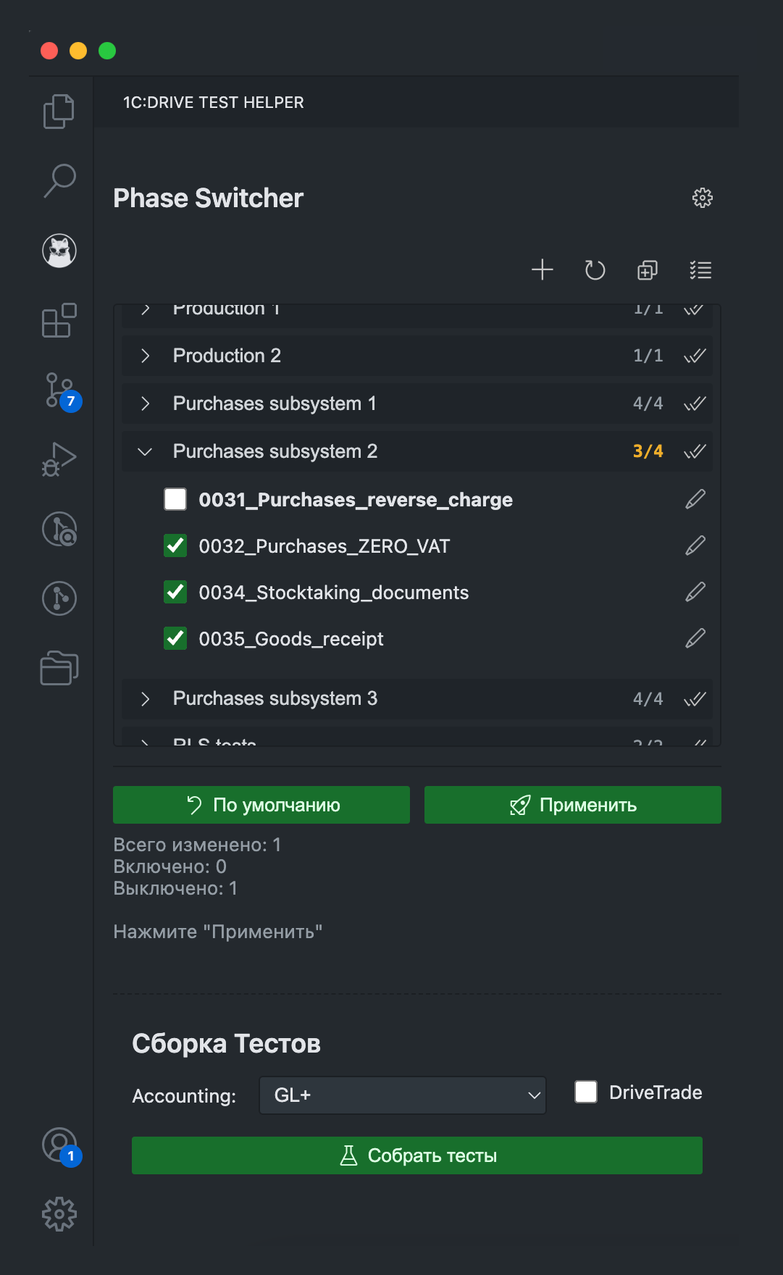
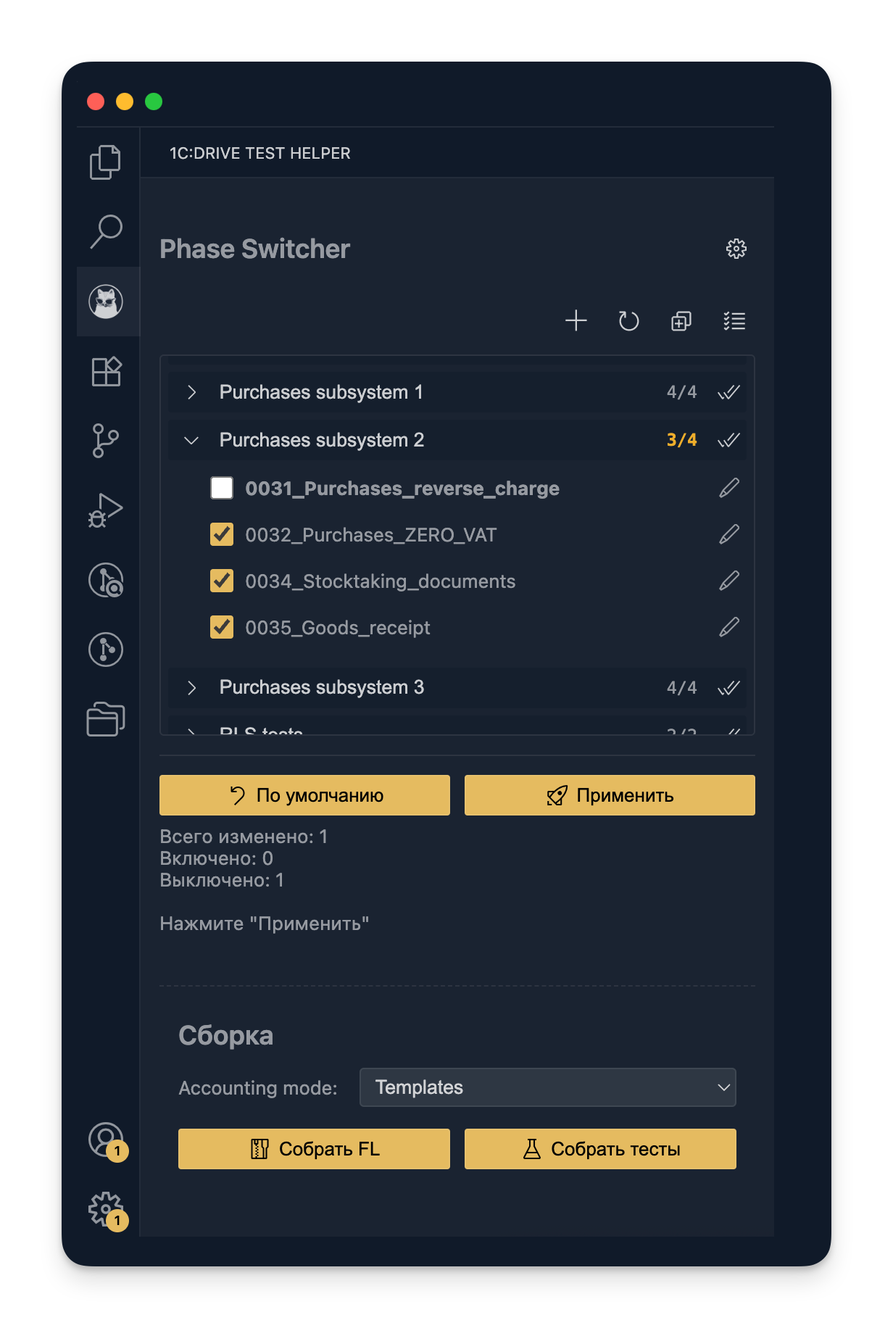
1.8.0

diff --git a/src/commandHandlers.ts b/src/commandHandlers.ts
@@ -6,6 +6,7 @@ import { v4 as uuidv4 } from 'uuid';
 import { findFileByName, findScenarioReferences } from './navigationUtils';
 import { PhaseSwitcherProvider } from './phaseSwitcher';
 import { TestInfo } from './types';
+import JSZip = require('jszip');
 
 /**
  * Общая функция для поиска файла по выделенному тексту в редакторе.
@@ -1195,4 +1196,109 @@ export async function checkAndFillScenarioParametersHandler(textEditor: vscode.T
 
     vscode.window.showInformationMessage(`Добавлено ${parametersToAdd.length} параметров сценария.`);
     console.log(`[Cmd:checkAndFillScenarioParameters] Added ${parametersToAdd.length} parameters.`);
+}
+
+
+/**
+ * Обработчик команды создания архива FirstLaunch.zip.
+ * @param context Контекст расширения.
+ */
+export async function handleCreateFirstLaunchZip(context: vscode.ExtensionContext): Promise<void> {
+    console.log("[Cmd:createFirstLaunchZip] Starting...");
+
+    const workspaceFolders = vscode.workspace.workspaceFolders;
+    if (!workspaceFolders || workspaceFolders.length === 0) {
+        vscode.window.showErrorMessage("Рабочая область не открыта.");
+        return;
+    }
+    const workspaceRoot = workspaceFolders[0].uri;
+
+    try {
+        // --- 1. Чтение версии из Configuration.xml ---
+        const configXmlUri = vscode.Uri.joinPath(workspaceRoot, 'cf', 'Configuration.xml');
+        let version = '';
+        try {
+            const xmlContentBytes = await vscode.workspace.fs.readFile(configXmlUri);
+            const xmlContent = Buffer.from(xmlContentBytes).toString('utf-8');
+            const versionMatch = xmlContent.match(/<Version>([^<]+)<\/Version>/);
+            if (!versionMatch || !versionMatch[1]) {
+                vscode.window.showErrorMessage("Не удалось найти тег <Version> в cf/Configuration.xml.");
+                return;
+            }
+            version = versionMatch[1];
+            console.log(`[Cmd:createFirstLaunchZip] Found version: ${version}`);
+        } catch (error) {
+            vscode.window.showErrorMessage("Не удалось прочитать файл cf/Configuration.xml.");
+            return;
+        }
+
+        // --- 2. Рекурсивный обход папки и замена версии ---
+        const zip = new JSZip();
+        const firstLaunchFolderUri = vscode.Uri.joinPath(workspaceRoot, 'first_launch');
+
+        await vscode.window.withProgress({
+            location: vscode.ProgressLocation.Notification,
+            title: "Сборка FirstLaunch.zip",
+            cancellable: false
+        }, async (progress) => {
+            progress.report({ message: "Чтение файлов..." });
+            
+            async function processDirectory(dirUri: vscode.Uri, zipFolder: JSZip) {
+                const entries = await vscode.workspace.fs.readDirectory(dirUri);
+                for (const [name, type] of entries) {
+                    const fullUri = vscode.Uri.joinPath(dirUri, name);
+                    if (type === vscode.FileType.Directory) {
+                        const subFolder = zipFolder.folder(name);
+                        if(subFolder) {
+                            await processDirectory(fullUri, subFolder);
+                        }
+                    } else if (type === vscode.FileType.File) {
+                        const fileBytes = await vscode.workspace.fs.readFile(fullUri);
+                        let fileContent = Buffer.from(fileBytes).toString('utf-8');
+                        
+                        const newFileContent = fileContent.replace(/version="[^"]*">/g, `version="${version}">`);
+                        
+                        zipFolder.file(name, newFileContent);
+                    }
+                }
+            }
+
+            await processDirectory(firstLaunchFolderUri, zip);
+
+            // --- 3. Сохранение ZIP архива ---
+            progress.report({ message: "Создание архива..." });
+
+            const saveUri = await vscode.window.showSaveDialog({
+                defaultUri: vscode.Uri.joinPath(workspaceRoot, 'FirstLaunch.zip'),
+                filters: {
+                    'Zip-архивы': ['zip']
+                },
+                title: "Сохранить FirstLaunch.zip"
+            });
+
+            if (saveUri) {
+                const zipContent = await zip.generateAsync({ type: "nodebuffer" });
+                await vscode.workspace.fs.writeFile(saveUri, zipContent);
+                console.log(`[Cmd:createFirstLaunchZip] Archive saved to ${saveUri.fsPath}`);
+
+                // Показываем уведомление с кнопкой
+                vscode.window.showInformationMessage(
+                    `Архив FirstLaunch.zip успешно сохранен`,
+                    'Открыть директорию'
+                ).then(selection => {
+                    if (selection === 'Открыть директорию') {
+                        // Открыть системный проводник и выделить файл
+                        vscode.commands.executeCommand('revealFileInOS', saveUri);
+                    }
+                });
+            } else {
+                console.log("[Cmd:createFirstLaunchZip] Save dialog cancelled.");
+                vscode.window.showInformationMessage("Сохранение архива отменено.");
+            }
+        });
+
+    } catch (error: any) {
+        console.error("[Cmd:createFirstLaunchZip] Error:", error);
+        vscode.window.showErrorMessage(`Ошибка при создании FirstLaunch.zip: ${error.message || error}`);
+    }
 }

diff --git a/media/phaseSwitcher.css b/media/phaseSwitcher.css
@@ -286,17 +286,17 @@ h1 {
     font-style: italic;
 }
 
-.phase-switcher-controls .controls-row {
+.controls-row {
      display: flex;
      gap: 10px;
      margin-bottom: 10px;
      flex-wrap: wrap; 
 }
-.phase-switcher-controls .controls-row:last-child {
+.controls-row:last-child {
     margin-bottom: 0; 
 }
 
-.phase-switcher-controls .controls-row > button {
+.controls-row > button {
     flex-grow: 1;         
     flex-shrink: 1;       
     flex-basis: auto;     
@@ -430,6 +430,14 @@ label.checkbox-item.changed span.checkbox-label-text {
 }
 .assemble-options label.setting-item span { font-size: var(--vscode-font-size); }
 .assemble-controls { margin-bottom: 10px; }
+.assemble-controls .controls-row {
+    display: flex;
+    gap: 10px;
+}
+.assemble-controls .controls-row > button {
+    flex-grow: 1;
+    flex-basis: 0;
+}
 #assembleStatus { 
     font-size: var(--vscode-editor-font-size); 
     color: var(--vscode-descriptionForeground); 
@@ -457,7 +465,7 @@ label.checkbox-item.changed span.checkbox-label-text {
 
 /* Общие стили для кнопок в нижнем блоке управления */
 .phase-switcher-controls button, 
-#assembleTestsBtn {
+.assemble-controls button {
     background-color: var(--vscode-button-background);
     color: var(--vscode-button-foreground);
     border: 1px solid var(--vscode-button-border, var(--vscode-contrastBorder));
@@ -468,20 +476,17 @@ label.checkbox-item.changed span.checkbox-label-text {
     font-size: var(--vscode-font-size);
 }
 .phase-switcher-controls button:hover, 
-#assembleTestsBtn:hover {
+.assemble-controls button:hover {
     background-color: var(--vscode-button-hoverBackground);
 }
 .phase-switcher-controls button:disabled, 
-#assembleTestsBtn:disabled {
+.assemble-controls button:disabled {
     background-color: var(--vscode-button-secondaryBackground); 
     color: var(--vscode-disabledForeground);
     cursor: not-allowed; 
     border-color: var(--vscode-button-border, var(--vscode-disabledForeground));
     opacity: 0.7;
 }
-#assembleTestsBtn {
-    width: 100%;
- }
 
 .button-with-icon {
   display: inline-flex; 

diff --git a/media/phaseSwitcher.html b/media/phaseSwitcher.html
@@ -67,22 +67,24 @@
         <hr id="sectionSeparator" class="section-separator">
         
         <div id="assembleSection" class="assemble-tests-section">
-            <h1>Сборка Тестов</h1>
+            <h1>Сборка</h1>
             <div class="assemble-options assemble-options-inline">
-                Accounting:
+                Accounting mode:
                 <select id="recordGLSelect" name="recordGLAccounts" title="Record GL Accounts (0=No, 1=Yes, 2=Templates)">
                     <option value="0">GL-</option>
                     <option value="1">GL+</option>
                     <option value="2" selected>Templates</option>
                 </select>
-                <label class="setting-item drive-trade-label">
-                    <input type="checkbox" id="driveTradeChk">
-                    <span>DriveTrade</span> </label>
             </div>
             <div class="assemble-controls">
-                 <button id="assembleTestsBtn" class="button-with-icon">
-                     <span class="codicon codicon-beaker"></span> Собрать тесты
-                 </button>
+                <div class="controls-row">
+                    <button id="createFirstLaunchBtn" class="button-with-icon" title="Собрать архив FirstLaunch">
+                        <span class="codicon codicon-file-zip"></span> Собрать FL
+                    </button>
+                    <button id="assembleTestsBtn" class="button-with-icon">
+                        <span class="codicon codicon-beaker"></span> Собрать тесты
+                    </button>
+                </div>
             </div>
             <div id="assembleStatus" class="status-area">
             </div>

diff --git a/media/phaseSwitcher.js b/media/phaseSwitcher.js
@@ -20,7 +20,8 @@
     const refreshBtn = document.getElementById('refreshBtn');
     const openSettingsBtn = document.getElementById('openSettingsBtn');
     const collapseAllBtn = document.getElementById('collapseAllBtn');
-    
+    const createFirstLaunchBtn = document.getElementById('createFirstLaunchBtn');
+
     // Новые элементы для выпадающего меню
     const addScenarioDropdownBtn = document.getElementById('addScenarioDropdownBtn');
     const addScenarioDropdownContent = document.getElementById('addScenarioDropdownContent');
@@ -878,4 +879,10 @@
     if (applyChangesBtn instanceof HTMLButtonElement) applyChangesBtn.disabled = true;
     requestInitialState();
 
+    if(createFirstLaunchBtn instanceof HTMLButtonElement) {
+        createFirstLaunchBtn.addEventListener('click', () => {
+            log('Create FirstLaunch.zip button clicked.');
+            vscode.postMessage({ command: 'createFirstLaunchZip' });
+        });
+    }
 }());

diff --git a/src/extension.ts b/src/extension.ts
@@ -13,7 +13,8 @@ import {
     openMxlFileFromExplorerHandler,
     openMxlFileFromTextHandler,
     revealFileInExplorerHandler,
-    revealFileInOSHandler
+    revealFileInOSHandler,
+    handleCreateFirstLaunchZip
 } from './commandHandlers';
 
 import { DriveCompletionProvider } from './completionProvider';
@@ -257,6 +258,11 @@ export function activate(context: vscode.ExtensionContext) {
             await refreshGherkinStepsCommand(); 
         }
     }));
+
+    context.subscriptions.push(vscode.commands.registerCommand(
+        '1cDriveHelper.createFirstLaunchZip', 
+        () => handleCreateFirstLaunchZip(context)
+    ));
 
     console.log('1cDriveHelper commands and providers registered.');
 }

diff --git a/src/phaseSwitcher.ts b/src/phaseSwitcher.ts
@@ -188,6 +188,10 @@ export class PhaseSwitcherProvider implements vscode.WebviewViewProvider {
                     console.log("[PhaseSwitcherProvider] Received createNestedScenario command from webview.");
                     vscode.commands.executeCommand('1cDriveHelper.createNestedScenario');
                     return;
+                case 'createFirstLaunchZip':
+                    console.log("[PhaseSwitcherProvider] Received createFirstLaunchZip command from webview.");
+                    vscode.commands.executeCommand('1cDriveHelper.createFirstLaunchZip');
+                    return;
             }
         }, undefined, this._context.subscriptions);
 

diff --git a/README.md b/README.md
@@ -1,9 +1,7 @@
 # 1C:Drive Test Helper
-## Помощник для тестов 1C:Drive
-[![Версия](https://img.shields.io/badge/version-1.7.1-yellow)](./package.json) 
-
 <p align="center">
-  <img src="./res/icons/1CDriveTestHelper.png" alt="Иконка 1C:Drive Test Helper" width="128"/>
+  <img src="./docs/1CDriveTestHelper_poster.png" alt="Иконка 1C:Drive Test Helper" width="600"/><br>
+  <img src="https://img.shields.io/badge/version-1.8.0-yellow">
 </p>
 
 Помощник для разработки и управления регрессионными тестами 1C:Drive в VS Code. Ускоряет навигацию между сценариями, создание новых сценариев по шаблонам и управление фазами и сборкой для тестовых запусков.
@@ -52,7 +50,7 @@
 ## Панель 1C:Drive Test Helper:
 Для открытия, нажмите на иконку расширения <img src="./docs/activity_icon_mini.png" height="20" alt="Иконка" style="vertical-align: bottom;"> в боковой панели (Activity Bar).
 
-### Phase Switcher:
+### Панель Phase Switcher:
 
 Развитие приложения [Phase Switcher](https://github.com/kakoytochelik/PhaseSwitcher) внутри расширения для VS Code.
 
@@ -82,16 +80,20 @@
       * По кнопке карандаша можно открыть сценарий в редакторе.
       * **Статус-бар:** Отображает текущий статус (загрузка, наличие изменений, результат применения).
 
+### Панель Сборка:
+#### Сборка архива FirstLaunch:
+  * Позволяет собрать архив FirstLaunch.zip для целей тестирования региональных версий.
+  * `Собрать FL`: собирает архив, подставляет в файлы текущую версию конфигурации из ветки.
+  * После успешной сборки архива предлагает выбрать место для сохранения, после чего можно открыть директорию с сохраненным файлом из уведомления.
 
-### Сборка тестов:
+#### Сборка тестов:
   * Позволяет запустить скрипт сборки (BuildScenarioBDD) с установленными параметрами.
   * **Индикация процесса:** Во время сборки отображается прогресс-бар в виде уведомления.
   * **Уведомления об ошибках:** В случае неудачной сборки появляется уведомление с кнопкой для быстрого перехода к файлу лога.
   * В настройках расширения можно указать параметры тестовой почты и отключить автоматическое открытие панели `Output` при запуске сборки.
   * Автоматически вычищает "ненужные" шаги из определенных тестов (001_Company, I_start_my_first_launch)
   * Управление сборкой:
-      * Выпадающее меню `Accounting`: можно выбрать тип бух.учета перед сборкой тестов.
-      * Чекбокс `Drive Trade`: можно выбрать режим тестов для Production или Sales&Services.
+      * Выпадающее меню `Accounting mode`: можно выбрать тип бух.учета перед сборкой тестов.
       * `Собрать тесты`: запускает скрипт сборки.
   * Отдельный статус-бар для процесса сборки.
   * После успешной сборки можно открыть директорию с собранными тестами.
@@ -111,7 +113,7 @@
 2.  **Настройка:**<br>
     В настройки расширения можно перейти стандартным методом через общие настройки или **по кнопке настроек с панели Activity Bar**.
     * `Включить панель "Phase Switcher"`: переключает отображение секции **Phase Switcher в Activity Bar** (по умолчанию вкл.)
-    * `Включить панель "Сборка тестов"`: переключает отображение секции **Сборщика тестов в Activity Bar** (по умолчанию вкл.)
+    * `Включить панель "Сборка"`: переключает отображение секции **Сборщика тестов в Activity Bar** (по умолчанию вкл.)
     * `URL для шагов Gherkin`: URL для загрузки файла `steps.htm`. Оставьте пустым, чтобы использовать файл из расширения, или укажите свой для динамических обновлений.
     * `Auto collapse on open`: Автоматически сворачивать секции `ВложенныеСценарии` и `ПараметрыСценария` при открытии файла.
     * **Настройки тестовой почты**:
@@ -123,7 +125,7 @@
       * `Email Outgoing Port`: Порт исходящей почты (EMailTestOutgoingMailPort).
       * `Email Protocol`: Протокол почты, IMAP или POP3 (EMailTestProtocol).
     * **Настройки сборки**:
-      * `Split Feature Files`: Сохранять приложенные к тестам файлы в отдельную папку (по умолчанию вкл.).
+      * `Split Feature Files`: Сохранять приложенные к тестам файлы в отдельную папку (по умолчанию выкл.).
       * `Show Output Panel`: Показывать панель Output при сборке тестов (по умолчанию выкл.).
     * **Настройки системных путей**:
       * `Empty Infobase`: Путь к каталогу пустой файловой информационной базы, на которой будет запускаться обработка сборки сценариев (EmptyInfobasePath).
@@ -140,11 +142,14 @@
     * Отметьте/снимите отметки у тестов. Названия измененных тестов станут жирными.
     * Нажмите `Применить`.
     * Используйте `Обновить`, если вы вручную изменили структуру папок тестов.
-5.  **Сборка тестов:**
+5.  **Сборка:**
     * Откройте через **иконку <img src="./docs/activity_icon_mini.png" height="20" alt="Иконка" style="vertical-align: bottom;"> в Activity Bar**.
-    * Выберите режим бух.учета `Accounting`
-    * <i>(опционально)</i> Выберите режим `DriveTrade`
-    * Нажмите `Собрать тесты`
+    * Сборка архива FirstLaunch:
+      * Нажмите `Собрать FL`
+      * Выберите место для сохранения
+    * Сборка тестов:
+      * Выберите режим бух.учета `Accounting mode`
+      * Нажмите `Собрать тесты`
 
 ## Скриншоты
 

diff --git a/CHANGELOG.md b/CHANGELOG.md
@@ -1,5 +1,17 @@
 # Change Log
 
+# 1.8.0
+- **Новые возможности**:
+    - **Автоматическое создание архива FirstLaunch:**
+        - В палитре команд и в панели `Сборка` добавлена кнопка создания архива FirstLaunch `Собрать FL`.
+        - Автоматически устанавливается версия конфигурации из текущей ветки во всех местах, где это требуется.
+        - Возможность сохранить итоговый архив в пользовательскую директорию и открыть эту директорию.
+- **Исправления и доработки:**
+    - Панель `Сборка тестов` переименована в просто `Сборка`, так как теперь собираются не только тесты, но и архив FirstLaunch.
+    - Список `Accounting` переименован в `Accounting mode`.
+    - Убран переключатель DriveTrade, так как это легаси механика.
+    - Параметр `Split Feature Files` теперь по умолчанию выключен.
+
 # 1.7.1
 - **Исправления и доработки:**
     - **Реорганизация настроек:**
@@ -9,7 +21,6 @@
     - **Проверка заполненности параметров:**
         - При попытке запустить сборку тестов без установленных в настройках путей будет понятная ошибка и предложение заполнить настройки.
         - При попытке открыть файл MXL без установленных в настройках путей будет понятная ошибка и предложение заполнить настройки.
-
 
 # 1.7.0
 - **Новые возможности**:
